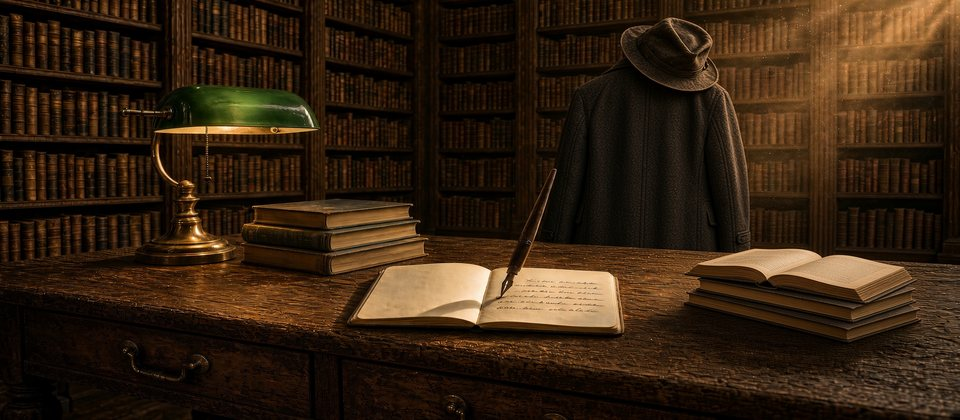
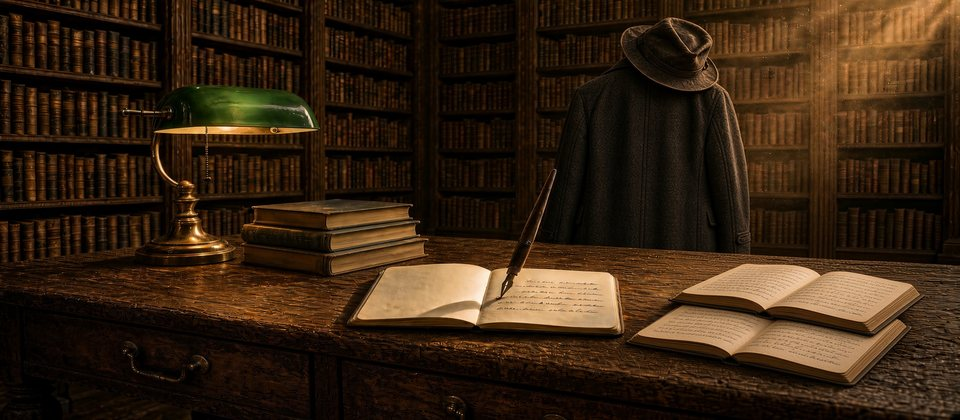
Ciubi Note: două caiete deschise în dreapta

diff --git a/index.html b/index.html
@@ -17,8 +17,8 @@
 <link href="https://fonts.googleapis.com/css2?family=Fraunces:ital,opsz,wght@0,9..144,600;0,9..144,650;1,9..144,480&family=Source+Sans+3:wght@400;600;700&display=swap" rel="stylesheet">
 <script>
 (function () {
-  if (location.search.indexOf("v=hub12") === -1) {
-    location.replace("./?v=hub12");
+  if (location.search.indexOf("v=hub13") === -1) {
+    location.replace("./?v=hub13");
     return;
   }
   if ("serviceWorker" in navigator) {
